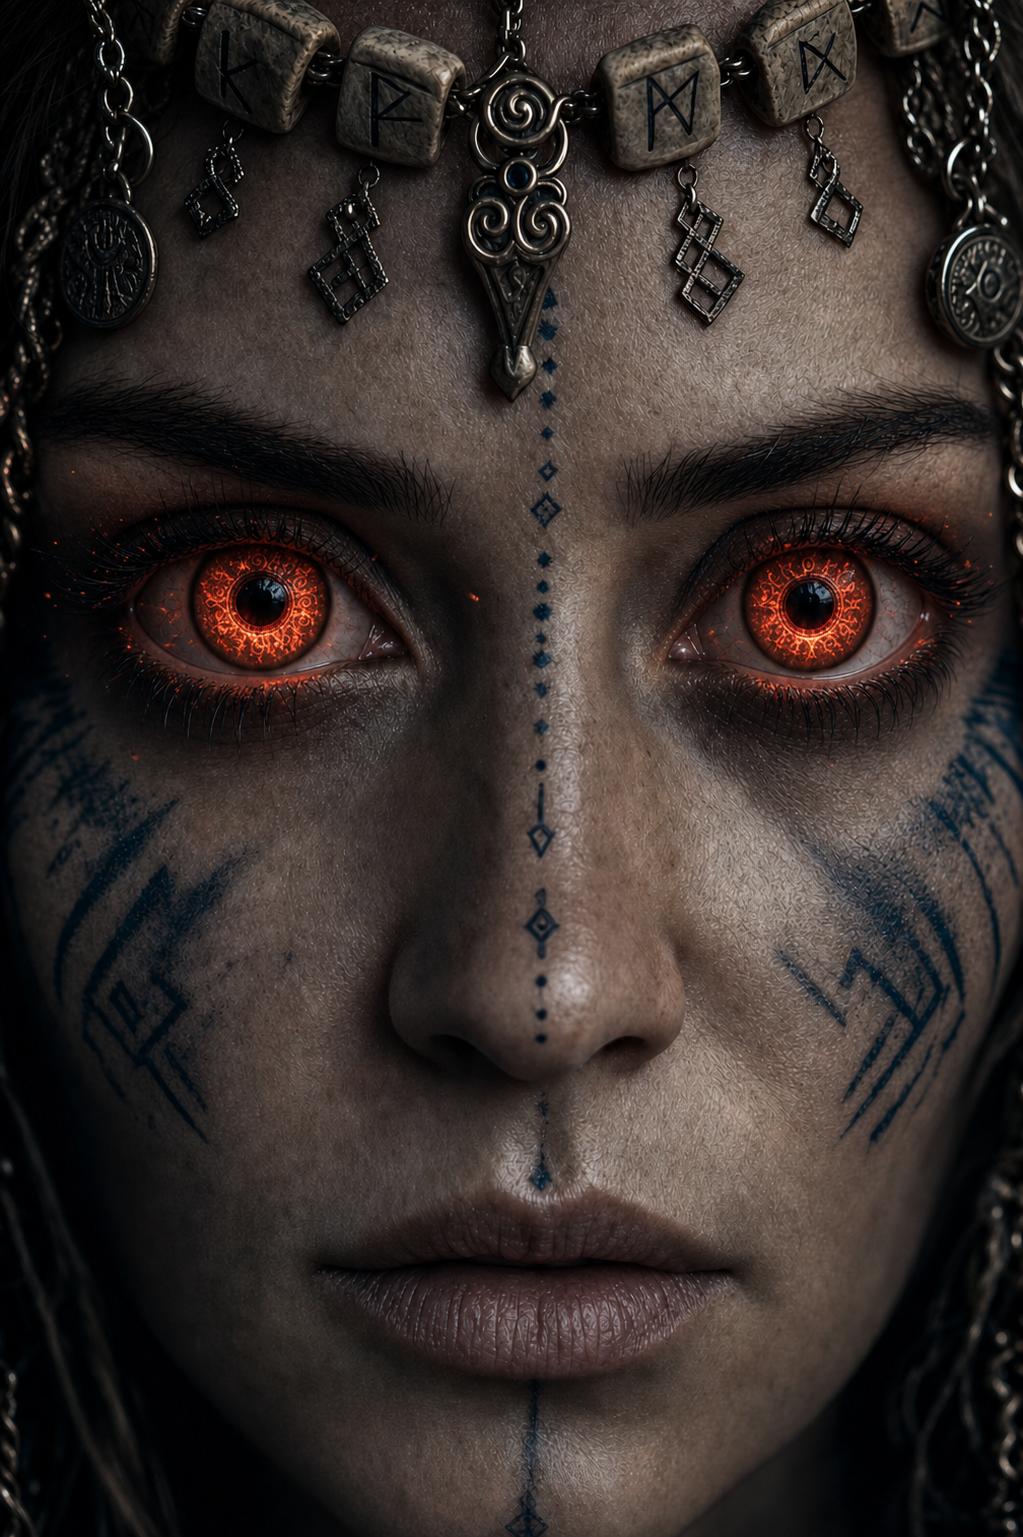
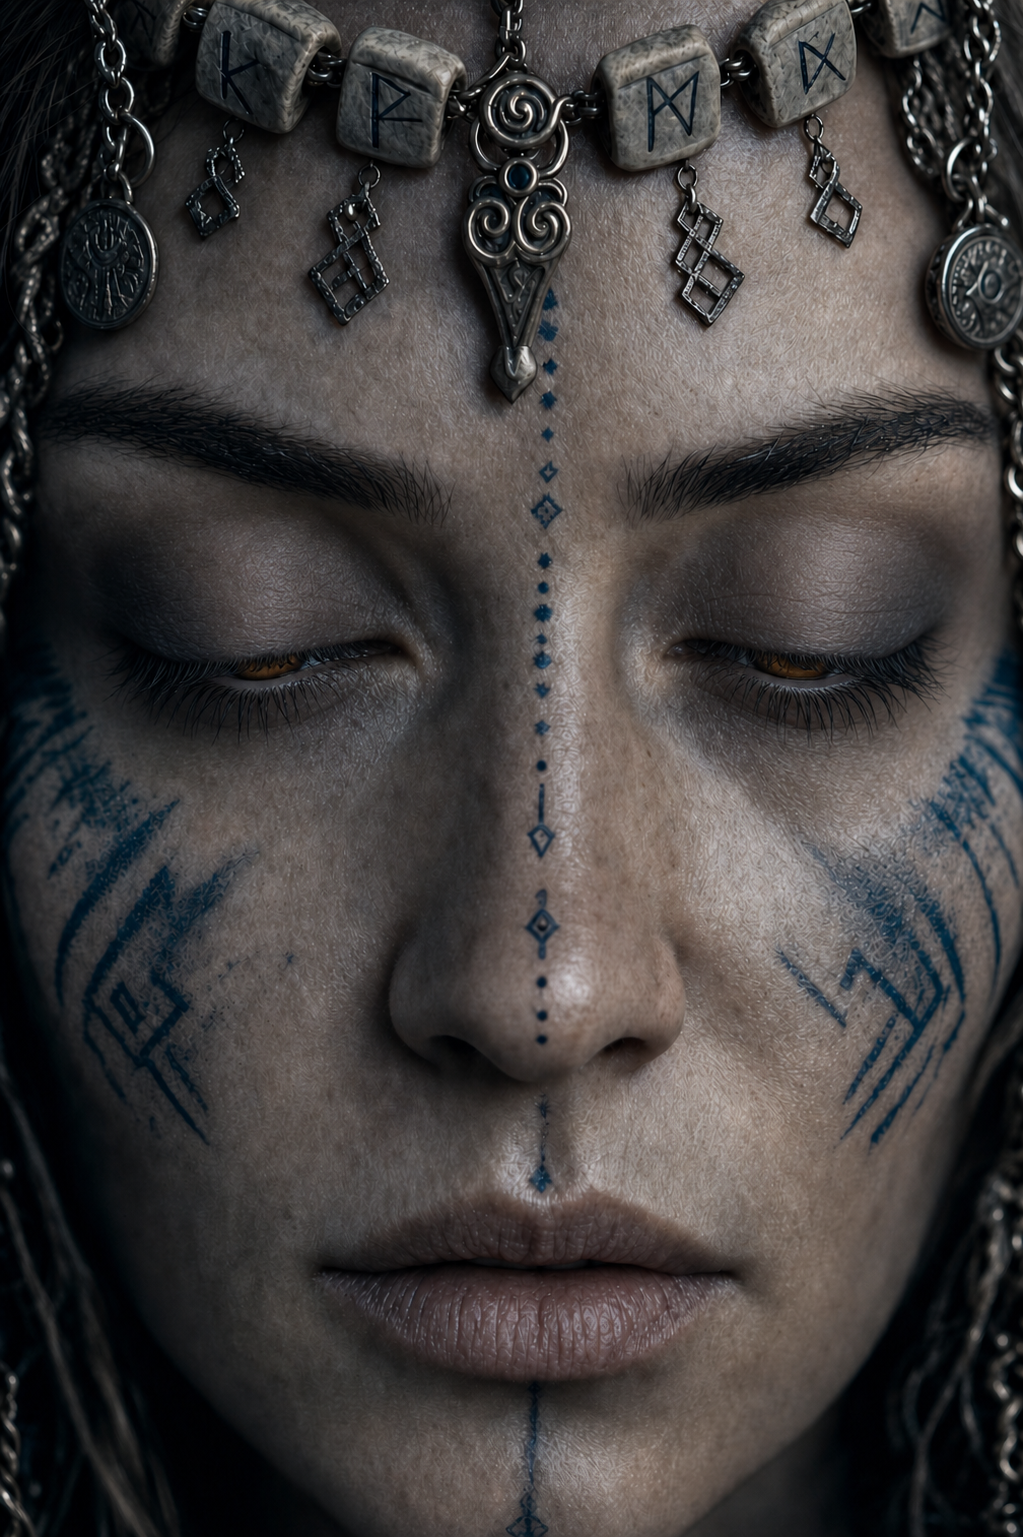
feat: SEIÐR v3 — 9-frame consistent sequence, full arc closed→void→closed
- Regenerated all frames from scratch with identical crop, face, headdress, tattoos
- New arc: f1 closed → f2 barely open → f3 half-open → f4 fully open → f5 amber glow → f6 crimson rune irises → f7 white-gold void (contained) → f8 dimming → f9 closing
- No more cut artifacts: all frames share same face anatomy and framing
- 9-frame crossfade schedule with ease() on every transition
- TOTAL_WHEEL=4000 for smoother 9-phase scrub
- lerp 0.06 for cinematic smoothness

diff --git a/demos/seidr.html b/demos/seidr.html
@@ -20,23 +20,22 @@
     inset: 0;
   }
 
-  /* Each frame is absolute, full-bleed, opacity-controlled */
+  /* Each frame is absolute, full-bleed, opacity-controlled by JS */
   .frame {
     position: absolute;
     inset: 0;
     width: 100%;
     height: 100%;
     object-fit: cover;
-    object-position: center 30%;
+    object-position: center 28%;
     opacity: 0;
     will-change: opacity;
-    /* Slight zoom on mid-journey frames for pull-in effect */
-    transform: scale(1.04);
-    transition: none; /* JS controls this */
+    transition: none;
+    transform: scale(1.0);
   }
 
-  /* F1 starts visible */
-  #f1 { opacity: 1; transform: scale(1); }
+  /* F1 (closed eyes) starts visible */
+  #f1 { opacity: 1; }
 
   /* ── TITLE OVERLAY ── */
   #title {
@@ -55,6 +54,7 @@
     pointer-events: none;
     user-select: none;
     text-shadow: none;
+    mix-blend-mode: screen;
   }
 
   /* ── SUBTITLE ── */
@@ -92,16 +92,16 @@
     font-size: 0.55rem;
     letter-spacing: 0.42em;
     text-transform: uppercase;
-    color: rgba(255,255,255,0.4);
+    color: rgba(255,255,255,0.3);
     font-family: 'Courier New', monospace;
   }
   #scroll-cue .line {
     width: 1px;
     height: 2rem;
-    background: linear-gradient(to bottom, rgba(255,255,255,0.4), transparent);
+    background: linear-gradient(to bottom, rgba(255,255,255,0.3), transparent);
     animation: pulse 2s ease-in-out infinite;
   }
-  @keyframes pulse { 0%,100%{opacity:0.3} 50%{opacity:1} }
+  @keyframes pulse { 0%,100%{opacity:0.2} 50%{opacity:0.8} }
 
   /* ── DEBUG ── */
   #dbg {
@@ -112,7 +112,7 @@
     font-size: 0.5rem;
     letter-spacing: 0.18em;
     text-transform: uppercase;
-    color: rgba(255,255,255,0.18);
+    color: rgba(255,255,255,0.15);
     pointer-events: none;
   }
 </style>
@@ -120,12 +120,16 @@
 <body>
 
 <div id="stage">
-  <!-- Image sequence — 5 frames, crossfaded by scroll -->
+  <!-- 9 image frames — scroll crossfades between them -->
   <img id="f1" class="frame" src="../assets/img/seidr_f1.png" alt="" draggable="false" />
   <img id="f2" class="frame" src="../assets/img/seidr_f2.png" alt="" draggable="false" />
   <img id="f3" class="frame" src="../assets/img/seidr_f3.png" alt="" draggable="false" />
   <img id="f4" class="frame" src="../assets/img/seidr_f4.png" alt="" draggable="false" />
   <img id="f5" class="frame" src="../assets/img/seidr_f5.png" alt="" draggable="false" />
+  <img id="f6" class="frame" src="../assets/img/seidr_f6.png" alt="" draggable="false" />
+  <img id="f7" class="frame" src="../assets/img/seidr_f7.png" alt="" draggable="false" />
+  <img id="f8" class="frame" src="../assets/img/seidr_f8.png" alt="" draggable="false" />
+  <img id="f9" class="frame" src="../assets/img/seidr_f9.png" alt="" draggable="false" />
 </div>
 
 <div id="title">SEIÐR</div>
@@ -135,149 +139,168 @@
 
 <script>
 /* ════════════════════════════════════════════════════
-   SEIÐR — Scroll-driven image crossfade
-   Exactly like the ОЧИ site: real photograph frames
-   crossfade based on virtual scroll progress.
-   No canvas drawing over the image.
+   SEIÐR — 9-frame scroll-driven image crossfade
+   ════════════════════════════════════════════════════
+   Arc (9 frames, 8 transitions):
+   f1  p=0.00      — eyes closed (start)
+   f2  p=0.05→0.15 — barely open / thin amber slit
+   f3  p=0.18→0.28 — half open
+   f4  p=0.32→0.42 — fully open, calm amber
+   f5  p=0.46→0.54 — amber glowing intensely
+   f6  p=0.57→0.65 — crimson rune irises
+   f7  p=0.68→0.75 — white-gold void peak
+   f8  p=0.78→0.86 — dimming, amber returning
+   f9  p=0.90→0.98 — eyes closing (end)
    ════════════════════════════════════════════════════ */
 
-const frames   = [f1, f2, f3, f4, f5];
+const FRAMES = [f1,f2,f3,f4,f5,f6,f7,f8,f9];
+const NAMES  = ['CLOSED','OPENING','HALF-OPEN','AWAKE','IGNITE','CRIMSON','VOID','DIMMING','CLOSING'];
 const title    = document.getElementById('title');
 const subtitle = document.getElementById('subtitle');
 const cue      = document.getElementById('scroll-cue');
 const dbg      = document.getElementById('dbg');
 
-// Pre-load all images
-frames.forEach(img => { img.decode && img.decode().catch(() => {}); });
+// Pre-decode all frames
+FRAMES.forEach(img => img.decode && img.decode().catch(() => {}));
 
-// ── VIRTUAL SCROLL ──
-// Segment map: each frame transition occupies a portion of 0→1 progress
-// 5 images → 4 transitions, plus hold regions
-// p=0   : f1 fully visible (natural eyes)
-// p=0.15: begin crossfade f1→f2 (dilating)
-// p=0.30: f2 fully visible; begin crossfade f2→f3
-// p=0.45: f3 fully visible (possessed)
-// p=0.58: begin crossfade f3→f4
-// p=0.68: f4 fully visible (void)
-// p=0.78: begin crossfade f4→f5
-// p=0.90: f5 fully visible (return)
-// p=1.00: end
+// ── CROSSFADE SCHEDULE ──
+// Each entry: { hold_start, xfade_start, xfade_end, hold_end }
+// Frame i is fully visible during [hold_start → xfade_start],
+// crossfades into frame i+1 during [xfade_start → xfade_end],
+// and is gone by xfade_end.
+// Frame i+1 fades in from xfade_start → xfade_end.
 
-const SEGMENTS = [
-  { from: 0,    to: 0.18 },   // f1 hold
-  { from: 0.18, to: 0.36 },   // f1→f2 transition
-  { from: 0.36, to: 0.50 },   // f2 hold → into f3
-  { from: 0.50, to: 0.63 },   // f2→f3 transition
-  { from: 0.63, to: 0.73 },   // f3 hold → into f4
-  { from: 0.73, to: 0.82 },   // f3→f4 transition
-  { from: 0.82, to: 0.90 },   // f4→f5 transition
-  { from: 0.90, to: 1.00 },   // f5 hold
+const SCHEDULE = [
+  // f1: hold 0→0.05, fade out 0.05→0.15
+  { hs: 0.00, xs: 0.05, xe: 0.15 },
+  // f2: fade in 0.05→0.15, hold 0.15→0.18, fade out 0.18→0.28
+  { hs: 0.15, xs: 0.18, xe: 0.28 },
+  // f3: fade in 0.18→0.28, hold 0.28→0.32, fade out 0.32→0.42
+  { hs: 0.28, xs: 0.32, xe: 0.42 },
+  // f4: fade in 0.32→0.42, hold 0.42→0.46, fade out 0.46→0.54
+  { hs: 0.42, xs: 0.46, xe: 0.54 },
+  // f5: fade in 0.46→0.54, hold 0.54→0.57, fade out 0.57→0.65
+  { hs: 0.54, xs: 0.57, xe: 0.65 },
+  // f6: fade in 0.57→0.65, hold 0.65→0.68, fade out 0.68→0.75
+  { hs: 0.65, xs: 0.68, xe: 0.75 },
+  // f7: fade in 0.68→0.75, hold 0.75→0.78, fade out 0.78→0.86
+  { hs: 0.75, xs: 0.78, xe: 0.86 },
+  // f8: fade in 0.78→0.86, hold 0.86→0.90, fade out 0.90→0.98
+  { hs: 0.86, xs: 0.90, xe: 0.98 },
+  // f9: fade in 0.90→0.98, hold 0.98→1.0
+  { hs: 0.98, xs: 1.00, xe: 1.00 },
 ];
 
-// Given global progress p (0→1), compute opacity for each frame
-function computeOpacities(p) {
-  const ops = [0, 0, 0, 0, 0];
+const clamp = (v, lo, hi) => Math.max(lo, Math.min(hi, v));
+const norm  = (v, lo, hi) => lo >= hi ? 1 : clamp((v - lo) / (hi - lo), 0, 1);
+const ease  = t => t < 0.5 ? 2*t*t : -1+(4-2*t)*t;
 
-  const clamp = (v, lo, hi) => Math.max(lo, Math.min(hi, v));
-  const norm  = (v, lo, hi) => clamp((v - lo) / (hi - lo), 0, 1);
+function computeOpacity(i, p) {
+  const s = SCHEDULE[i];
+  if (i === 0) {
+    // First frame: full until xs, then fades out
+    if (p < s.xs) return 1;
+    if (p < s.xe) return 1 - norm(p, s.xs, s.xe);
+    return 0;
+  }
+  if (i === FRAMES.length - 1) {
+    // Last frame: fades in from prev xe, holds forever
+    const prev = SCHEDULE[i-1];
+    if (p < prev.xs) return 0;
+    if (p < prev.xe) return norm(p, prev.xs, prev.xe);
+    return 1;
+  }
+  // Middle frames: fade in from prev transition, hold, fade out
+  const prev = SCHEDULE[i-1];
+  const fadeIn  = norm(p, prev.xs, prev.xe);
+  const hold    = p >= s.xs ? 1 : 1;   // already faded in
+  const fadeOut = p > s.xs ? 1 - norm(p, s.xs, s.xe) : 1;
 
-  // f1: full from 0 → 0.18, fades out 0.18 → 0.36
-  ops[0] = p < 0.18  ? 1
-         : p < 0.36  ? 1 - norm(p, 0.18, 0.36)
-         : 0;
-
-  // f2: fades in 0.18→0.36, full 0.36→0.50, fades out 0.50→0.63
-  ops[1] = p < 0.18  ? 0
-         : p < 0.36  ? norm(p, 0.18, 0.36)
-         : p < 0.50  ? 1
-         : p < 0.63  ? 1 - norm(p, 0.50, 0.63)
-         : 0;
-
-  // f3: fades in 0.50→0.63, full 0.63→0.73, fades out 0.73→0.82
-  ops[2] = p < 0.50  ? 0
-         : p < 0.63  ? norm(p, 0.50, 0.63)
-         : p < 0.73  ? 1
-         : p < 0.82  ? 1 - norm(p, 0.73, 0.82)
-         : 0;
-
-  // f4: fades in 0.73→0.82, full 0.82→0.88, fades out 0.88→0.93
-  ops[3] = p < 0.73  ? 0
-         : p < 0.82  ? norm(p, 0.73, 0.82)
-         : p < 0.88  ? 1
-         : p < 0.93  ? 1 - norm(p, 0.88, 0.93)
-         : 0;
-
-  // f5: fades in 0.88→0.93, holds to 1.0
-  ops[4] = p < 0.88  ? 0
-         : p < 0.93  ? norm(p, 0.88, 0.93)
-         : 1;
-
-  return ops;
+  if (p < prev.xs)  return 0;
+  if (p < prev.xe)  return ease(norm(p, prev.xs, prev.xe));
+  if (p < s.xs)     return 1;
+  if (p < s.xe)     return ease(1 - norm(p, s.xs, s.xe));
+  return 0;
 }
 
-// Easing
-const ease = t => t < 0.5 ? 2*t*t : -1+(4-2*t)*t;
-
 // ── RENDER ──
-function render(dp) {
-  const p = dp;
-  const ops = computeOpacities(p);
-  frames.forEach((img, i) => {
-    img.style.opacity = ops[i].toFixed(4);
-  });
-
-  // Subtle zoom: f3 (possessed) scales up slightly as it peaks
-  f3.style.transform = `scale(${1 + ops[2] * 0.06})`;
-
-  // Title: appears at f2, peaks at f3, fades at f4
-  let ta = 0, ts = 0;
-  if (p > 0.25 && p < 0.90) {
-    const inT   = Math.min(1, (p - 0.25) / 0.15);
-    const outT  = p > 0.78 ? Math.max(0, 1 - (p - 0.78) / 0.12) : 1;
-    ta = ease(inT) * outT;
+function render(p) {
+  // Compute opacities for all 9 frames
+  for (let i = 0; i < FRAMES.length; i++) {
+    const op = computeOpacity(i, p);
+    FRAMES[i].style.opacity = op.toFixed(4);
   }
-  const tr = 120 + ops[2] * 120; // amber → red during possession
-  title.style.color     = `rgba(255,${Math.round(255-ops[2]*180)},${Math.round(255-ops[2]*240)},${ta.toFixed(3)})`;
-  title.style.textShadow = ta > 0.05
-    ? `0 0 60px rgba(255,${Math.round(200-ops[2]*180)},0,${(ta*0.6).toFixed(3)}), 0 0 120px rgba(180,0,0,${(ops[2]*ta*0.4).toFixed(3)})`
+
+  // Subtle scale: f7 (void) gets slight zoom at peak
+  const f7op = computeOpacity(6, p);
+  f7.style.transform = `scale(${1 + f7op * 0.04})`;
+
+  // ── TITLE ──
+  // Appears gently as eyes open (p≈0.3), peaks during glow phases,
+  // turns crimson at f6, white-gold at f7, fades as eyes close
+  let ta = 0;
+  if (p > 0.28 && p < 0.94) {
+    const inT  = ease(clamp((p - 0.28) / 0.14, 0, 1));
+    const outT = p > 0.86 ? ease(clamp(1 - (p - 0.86) / 0.08, 0, 1)) : 1;
+    ta = inT * outT;
+  }
+
+  // Color transitions: white → amber (f5) → red (f6) → white-gold (f7) → amber (f8) → white
+  const f5op = computeOpacity(4, p);
+  const f6op = computeOpacity(5, p);
+  const f7op2 = computeOpacity(6, p);
+  const f8op = computeOpacity(7, p);
+
+  const r = 255;
+  const g = Math.round(255 - f6op * 180 - f5op * 40 + f7op2 * 30);
+  const b = Math.round(255 - f5op * 200 - f6op * 240 - f7op2 * 100 + f8op * 100);
+
+  title.style.color = `rgba(${r},${clamp(g,0,255)},${clamp(b,20,255)},${ta.toFixed(3)})`;
+
+  const glowA  = (f5op * 0.5 + f6op * 0.7 + f7op2 * 0.9) * ta;
+  const glowR  = Math.round(255 * (f6op > 0.3 ? 0.5 : 1));
+  const glowG2 = Math.round(f7op2 * 150);
+  title.style.textShadow = glowA > 0.05
+    ? `0 0 50px rgba(${glowR},${glowG2},0,${glowA.toFixed(3)}), 0 0 120px rgba(${glowR},0,0,${(glowA*0.4).toFixed(3)})`
     : 'none';
 
-  // Subtitle fades in with title
-  subtitle.style.color = `rgba(255,255,255,${(ta * 0.45).toFixed(3)})`;
+  // Subtitle
+  subtitle.style.color = `rgba(255,255,255,${(ta * 0.4).toFixed(3)})`;
 
-  // Scroll cue fades out once scrolling starts
-  cue.style.opacity = p < 0.04 ? 1 : Math.max(0, 1 - p * 18);
+  // Scroll cue: fade out once scrolling begins
+  cue.style.opacity = p < 0.03 ? 1 : Math.max(0, 1 - (p - 0.03) * 25).toFixed(3);
 
   // Debug
-  const names = ['NATURAL','DILATE','POSSESSED','VOID','RETURN'];
-  const dominant = ops.indexOf(Math.max(...ops));
-  dbg.textContent = `${names[dominant]}  ${(p*100).toFixed(0)}%`;
+  const ops = FRAMES.map((_, i) => computeOpacity(i, p));
+  const dom = ops.indexOf(Math.max(...ops));
+  dbg.textContent = `${NAMES[dom]}  ${(p*100).toFixed(0)}%`;
 }
 
 // ── VIRTUAL WHEEL ENGINE ──
-const TOTAL_WHEEL = 3000;
-let vp = 0;  // target progress
-let dp = 0;  // display progress (smoothed)
+const TOTAL_WHEEL = 4000; // slightly longer feel for 9 frames
+let vp = 0;   // target progress
+let dp = 0;   // displayed progress (lerped)
 
 window.addEventListener('wheel', e => {
   e.preventDefault();
   vp = Math.max(0, Math.min(1, vp + e.deltaY / TOTAL_WHEEL));
 }, { passive: false });
 
+let _ty = 0;
 window.addEventListener('touchstart', e => {
   _ty = e.touches[0].clientY;
 }, { passive: true });
 
-let _ty = 0;
 window.addEventListener('touchmove', e => {
   e.preventDefault();
-  vp = Math.max(0, Math.min(1, vp + (_ty - e.touches[0].clientY) / (TOTAL_WHEEL * 0.3)));
+  const dy = _ty - e.touches[0].clientY;
   _ty = e.touches[0].clientY;
+  vp = Math.max(0, Math.min(1, vp + dy / (TOTAL_WHEEL * 0.28)));
 }, { passive: false });
 
 // ── TICK ──
 function tick() {
-  dp += (vp - dp) * 0.07;
+  dp += (vp - dp) * 0.06;  // slightly slower lerp = smoother transitions
   render(dp);
   requestAnimationFrame(tick);
 }

diff --git a/js/main.js b/js/main.js
@@ -6,7 +6,7 @@ const DEMOS = {
   seidr: {
     num: '01',
     name: 'SEIÐR',
-    tech: 'canvas iris + runes',
+    tech: 'iris + runes',
     file: 'demos/seidr.html'
   },
   liquid: {
